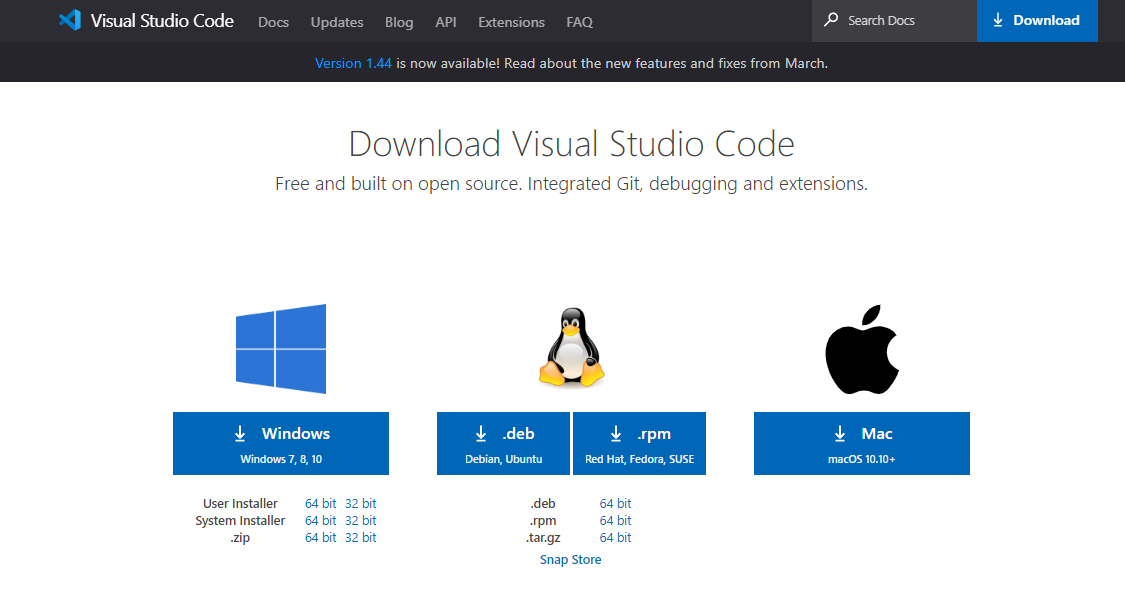
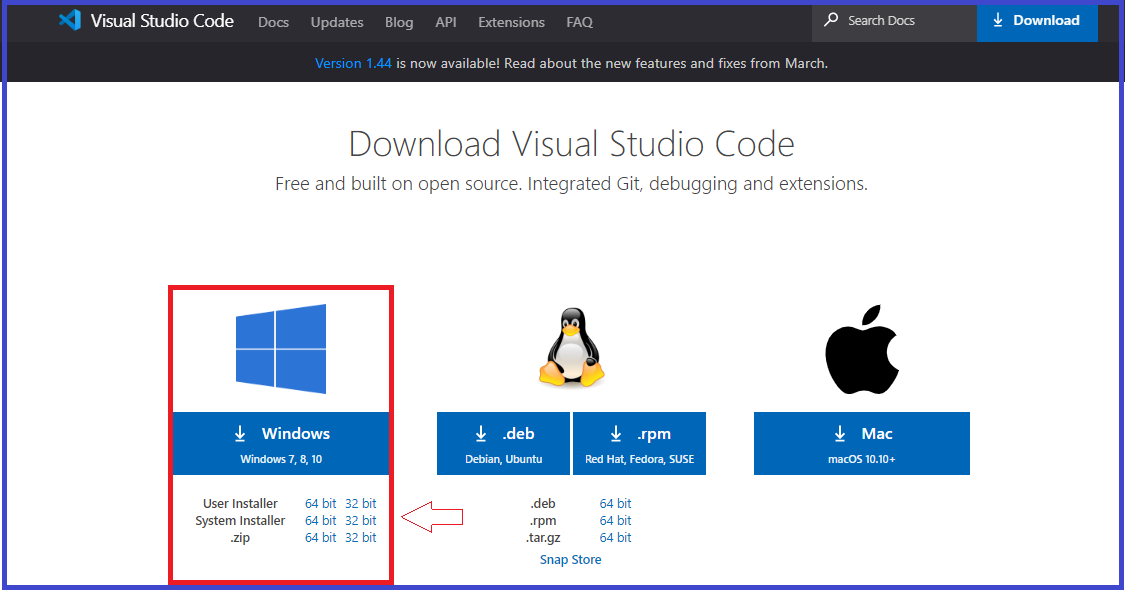
instalar VScode en Windows

Changed region(s): [[0.0, 0.0, 1.0, 1.0]]

diff --git a/Sesiones/0.Instalación de software - Windows.md b/Sesiones/0.Instalación de software - Windows.md
@@ -1,4 +1,4 @@
-Y<img src='../Img/screenshot/web1.png' align="right" width =20%>
+<img src='../Img/screenshot/web1.png' align="right" width =20%>
 
 # Instalación de software en el Sistema Operativo de Windows
 ### Autor: <a href= 'https://github.com/deygurc/Visualcode.git'>Deygur Canchari.</a>
@@ -28,15 +28,16 @@ Nos dirigimos en propiedades de mi PC
 
 ```
 
-![img src ](../Img/screenshot/prosiste.png)
+![img src ](../Img/screenshot/prosiste.png)...........remplasar
+
 
 
 Identificado las características de nuestro sistema operativo, nos dirigimos a la pagina principal [**VisualCode**](https://code.visualstudio.com/docs/?dv=win) donde encontraremos el link de descarga para instalar el sfotware.
 
-![img src ](../Img/screenshot/web.png)
+![img src ](../Img/screenshot/paginaweb.png)
 
 ```
-Según las especificaciones de nuestra computadora descargamos el más conveniente. Una vez descargado ejecutamos como administrador el Visualcode para dar inicio a la instalación.
+Según las especificaciones de nuestra computadora descargamos el más conveniente. Una vez descargado ejecutamos como administrador el Visualcode; para dar inicio a la instalación.
 ```
 
 ```
@@ -52,18 +53,13 @@ Para adquirir el programa:
 Primero tenemos que visitar su pagina https://www.postgresql.org encontraremos tanto la documentación como el programa.
 podremos versiones instaladores para distintos sistemas operativos.
 
-te mostrará versiones disponibles
 
-```
-
-```
 Empezamos la descarga "Download the installer te pedirá una confirmación de windows para ejecutar el programa aceptas.siguiente,siguiente...siguiente
 
-
 ```
-Te solicitará que proporciones una contraseña para un un usuario, generalmente pones una que vas a recordar después le das siguiente,siguiente...siguiente hasta terminar.
+Te solicitará que proporciones una contraseña para un usuario, generalmente pones una que vas a recordar, después le das siguiente,siguiente...siguiente, hasta finalizar.
 al final te dirá que complementos quieres instalarle a tu base de datos.
-
+```
 como trabajaremos en windows marquemos estas opciones.
 
 ![img src](../Img/screenshot/parawindows.png)
